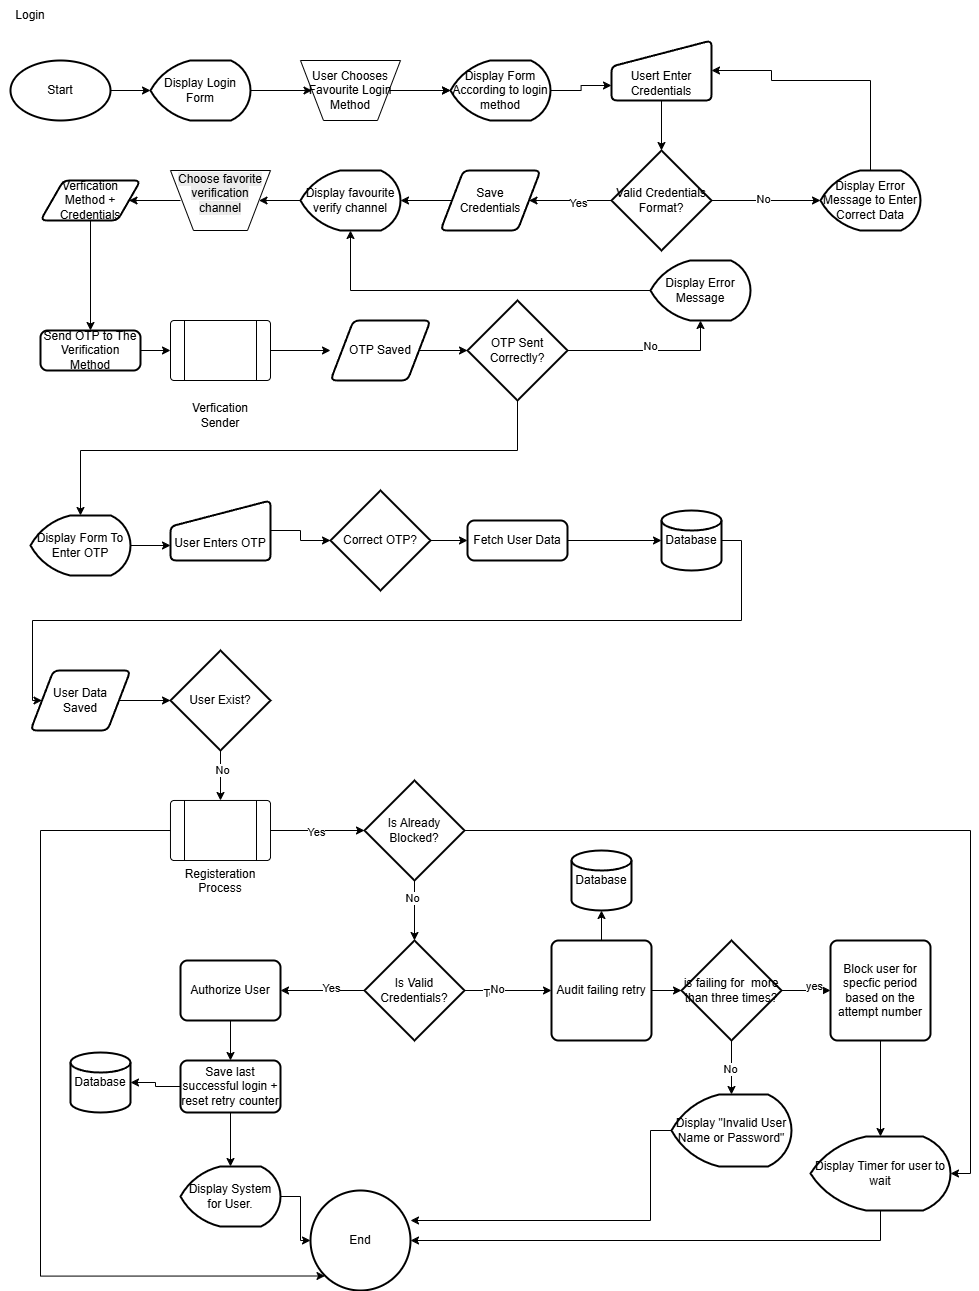
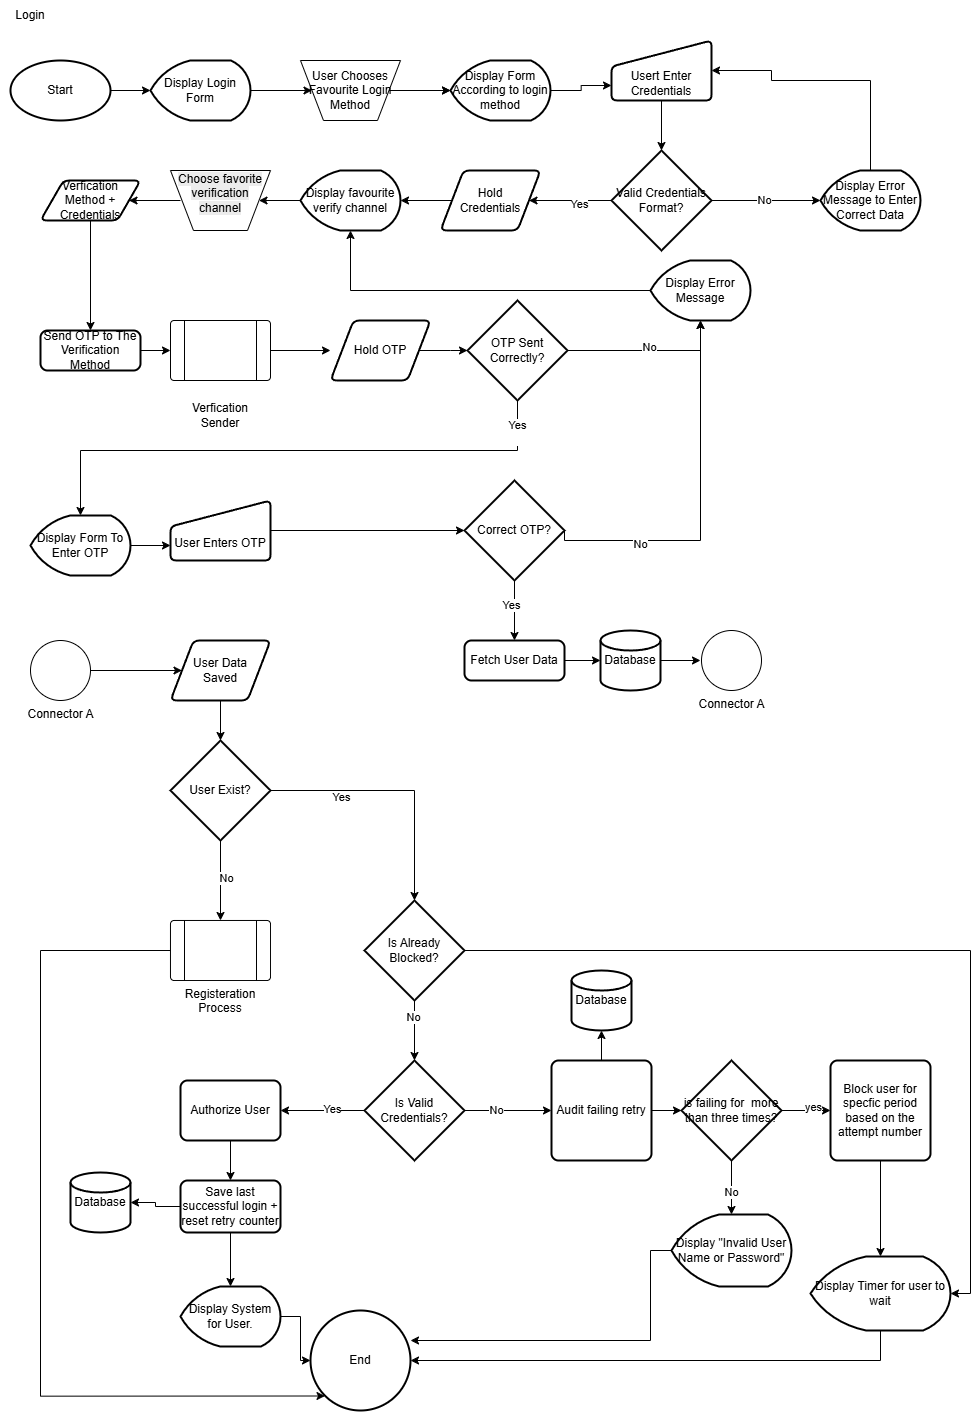
Add missing otp failure path in the login flowchart.

diff --git a/README.md b/README.md
@@ -125,34 +125,31 @@ This section groups artifacts for login and registration. Start with Login, then
 FUNCTION LoginFlow():
     START
     
-    // --- Row 1 ---
     Display Login Form
     User Chooses Favourite Login Method
     Display Form According to login method
     
-    LABEL UsertEnterCredentials:
-    Usert Enter Credentials
+    LABEL UserEntersCredentials:
+    User Enter Credentials
     
     IF NOT (Valid Credentials Format?) THEN
         Display Error Message to Enter Correct Data
-        GOTO UsertEnterCredentials
+        GOTO UserEntersCredentials
     ELSE
-        Save Credentials
+        Save Credentials in Memory
         Display favourite verify channel
         Choose favorite verification channel
         Verification Method + Credentials
         GOTO SendOTP
     ENDIF
 
-    // --- Row 2 & 3 ---
     LABEL SendOTP:
     Send OTP to The Verification Method
     Verification Sender (Subprocess)
-    OTP Saved
+    OTP Saved in Memory
     
     IF NOT (OTP Sent Correctly?) THEN
         Display Error Message
-        // Flows back to selection
         GOTO DisplayFavouriteVerifyChannel 
     ELSE
         GOTO DisplayFormToEnterOTP
@@ -164,7 +161,6 @@ FUNCTION LoginFlow():
     Verification Method + Credentials
     GOTO SendOTP
 
-    // --- Row 4 ---
     LABEL DisplayFormToEnterOTP:
     Display Form To Enter OTP
     User Enters OTP
@@ -174,22 +170,20 @@ FUNCTION LoginFlow():
         Query Database
         GOTO CheckUserExistence
     ELSE
-        // Note: Diagram does not explicitly map the 'No' path for Correct OTP?
-        // Assumed block state or loop based on visual flow continuity
+        Display Error Message
+        GOTO DisplayFormToEnterOTP
     ENDIF
 
-    // --- Row 5 ---
     LABEL CheckUserExistence:
     User Data Saved
     
     IF NOT (User Exist?) THEN
-        Registeration Process (Subprocess)
+        Registration Process (Subprocess)
         GOTO EndProcess
     ELSE
         GOTO CheckAlreadyBlocked
     ENDIF
 
-    // --- Row 6, 7 & 8 ---
     LABEL CheckAlreadyBlocked:
     IF (Is Already Blocked?) THEN
         GOTO DisplayTimerForUserToWait
@@ -241,7 +235,6 @@ FUNCTION LoginFlow():
 FUNCTION RegistrationFlow():
     START
     
-    // --- Row 1 ---
     Display Registration Options
     User Chooses Registration Option
     
@@ -250,7 +243,6 @@ FUNCTION RegistrationFlow():
     User Enters Registration Data
     GOTO ConnectorA
     
-    // --- Row 2 ---
     LABEL ConnectorA:
     IF NOT (Valid Data Format?) THEN
         Display Error Message
@@ -267,7 +259,6 @@ FUNCTION RegistrationFlow():
         ENDIF
     ENDIF
     
-    // --- Row 3 ---
     LABEL ConnectorB:
     Send Verification Mail or message
     Inform User About Verification Code and Show Form
@@ -282,7 +273,6 @@ FUNCTION RegistrationFlow():
         GOTO ConnectorC
     ENDIF
     
-    // --- Row 4 ---
     LABEL ConnectorC:
     User Enters Verification Code
     